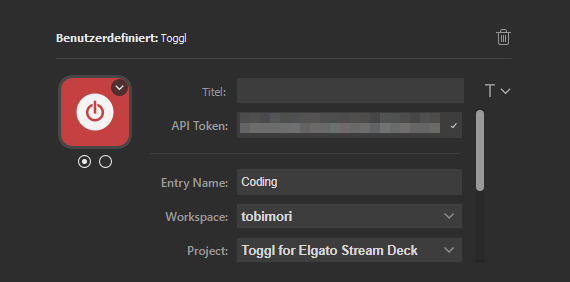
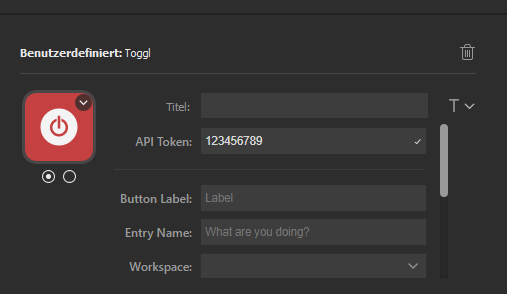
updated Readme added Title, Button Label, Billable properties

diff --git a/README.md b/README.md
@@ -3,6 +3,7 @@
     <img src="resources/readme/GitHubBanner.png" alt="Toggl Track + Elgato Stream Deck" />
   </a>
 </p>
+
 <p align="center">
   <a href="#">
     <img src="https://img.shields.io/badge/macOS-✓-success?logo=apple&style=flat-square&logoColor=white" alt="macOS supported" />
@@ -24,26 +25,28 @@
   </a>
 </p>
 
-<p align="center">
-  Hassle-free time tracking using the <a href="https://www.elgato.com/en/gaming/stream-deck">Elgato Stream Deck</a> 
-  and <a href="https://toggl.com/track/">Toggl Track</a>.
-</p>
-
 ___
 
-# ✏ Setup
+# Hassle-free time tracking using the [Elgato Stream Deck](https://www.elgato.com/en/gaming/stream-deck) and [Toggl Track](https://toggl.com/track/)
 
-![](resources/readme/PropertyInspector.png)
+## ✏ Setup
 
+Just search for the Action "Toggl" within the Stream Deck app and install it. There is a button called "Toggl" available in section "Custom".
+
+![PropertyInspector](resources/readme/PropertyInspector.png)
+
+* **Title** is a default Stream Deck property available for every button in Stream Deck. You should leave it empty (see Button Label).
 * **API Token** is your private API Token you can get from your [Toggl profile](https://track.toggl.com/profile). This Token is handled like a password. ***Don't share it***. Required.
+* **Button Label** is used instead of *Title*. If the tracker isn't running, the Label is shown on the button. If the tracker is running the elapsed time is shown additionally. If *Title* is set, it will override *Button Label*.
 * **Entry Name** describes the activity you want to report. It is not required but strongly recommended.
 * **Workspace** is your workspace you start the time entries in. Required.
-* **Project** is the project you want to assign the task to. Leave blank for no project.
+* **Project** is the project you want to assign the task to. Leave blank for no project. New projects can be added in Toggl.
+* **Billable** sets Toggl's billable flag (for Toggl paid plans only).
 
-# 📞 Help
+## 📞 Help
 
 Feel free to ask your questions on [my Discord Server](https://discord.gg/YWy3UAy). Please use GitHub Issues for reporting bugs and requesting new features.
 
-# 📄 License
+## 📄 License
 
 streamdeck-toggl is licensed under the [MIT License](LICENSE).
